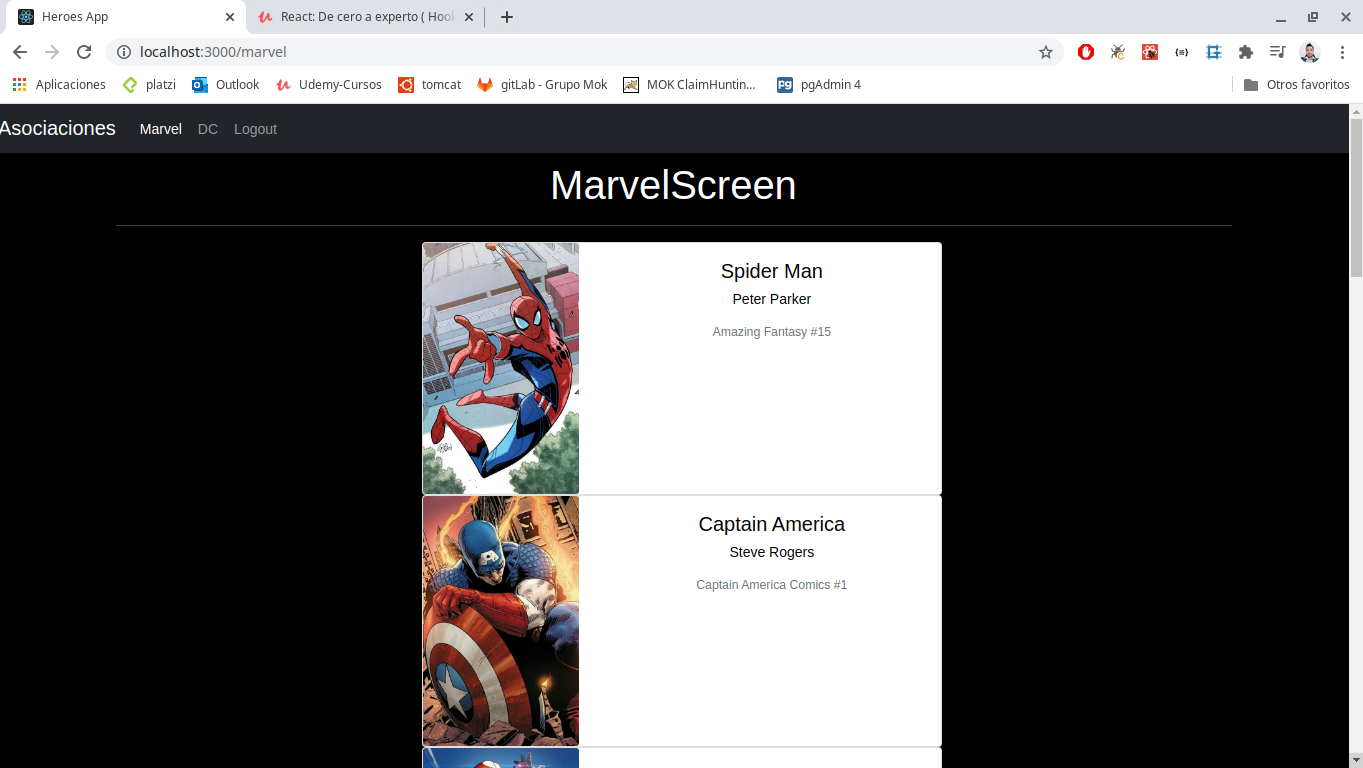
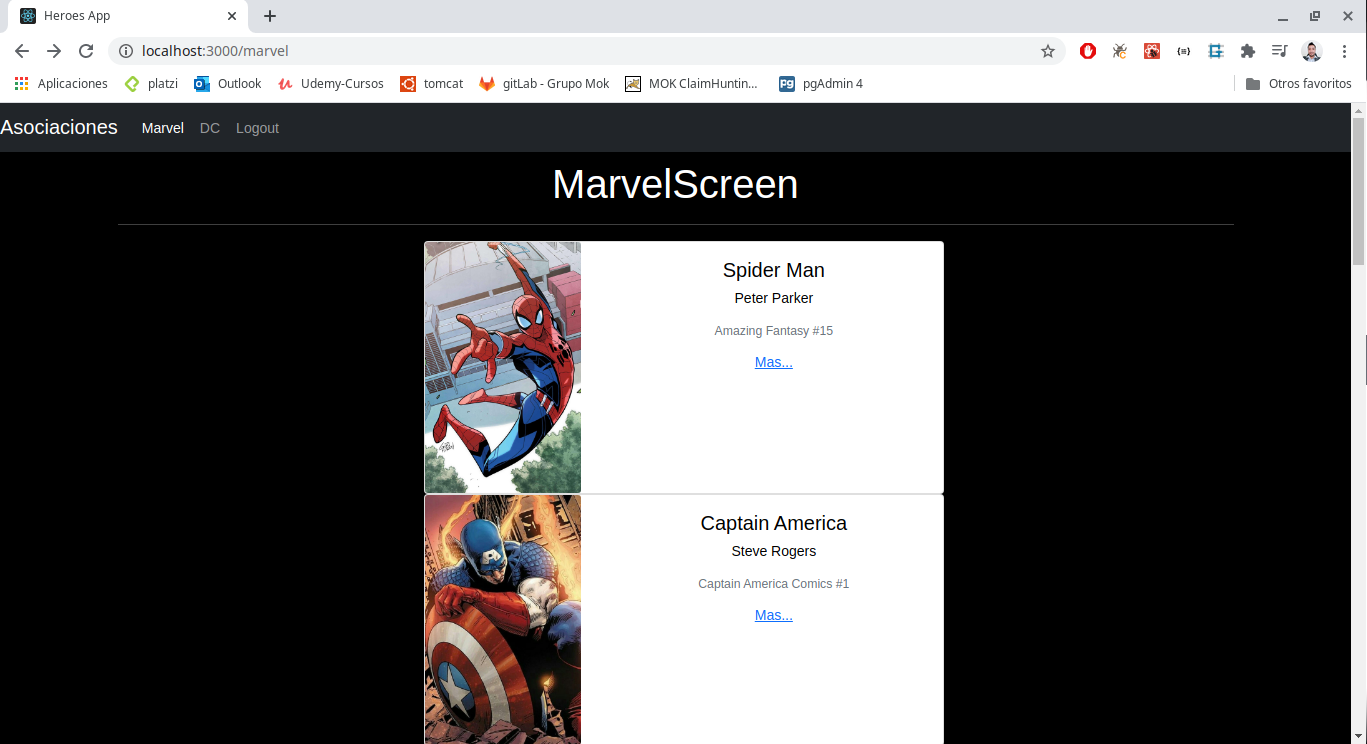
Tarjetas con la informacion del heroe

diff --git a/06-heroes-app/src/components/heroes/HeroCard.js b/06-heroes-app/src/components/heroes/HeroCard.js
@@ -1,4 +1,5 @@
 import React from 'react'
+import { Link } from 'react-router-dom'
 import './herocard.css'
 
 export const HeroCard = ({
@@ -26,7 +27,12 @@ export const HeroCard = ({
                         <p className="card-text">
                             <small className="text-muted"> { first_appearance} </small>
                         </p>
+
+                        <Link to= { `./heroe/${id}`}>
+                            Mas...
+                        </Link>
                     </div>
+                    
 
                 </div>
             </div>

diff --git a/README.md b/README.md
@@ -14646,6 +14646,7 @@ Despues de realizar el maquetado, agregamos una etiqueta `Link` que se debe de i
 
 ```
 import React from 'react'
+import { Link } from 'react-router-dom'
 import './herocard.css'
 
 export const HeroCard = ({
@@ -14673,7 +14674,12 @@ export const HeroCard = ({
                         <p className="card-text">
                             <small className="text-muted"> { first_appearance} </small>
                         </p>
+
+                        <Link to= { `./heroe/${id}`}>
+                            Mas...
+                        </Link>
                     </div>
+                    
 
                 </div>
             </div>
@@ -14683,11 +14689,12 @@ export const HeroCard = ({
 }
 ```
 
-Por el momento la pagina esta asi 
+Por el momento la pagina se ve asi y si damos click en el Link `Mas...` la siguiente pagina que va abrir es la ruta del heroe
 
 ![assets-git/394.png](assets-git/394.png)
 
 ![assets-git/395.png](assets-git/395.png)
+
 
 <div align="right">
   <small><a href="#tabla-de-contenido">🡡 volver al inicio</a></small>
